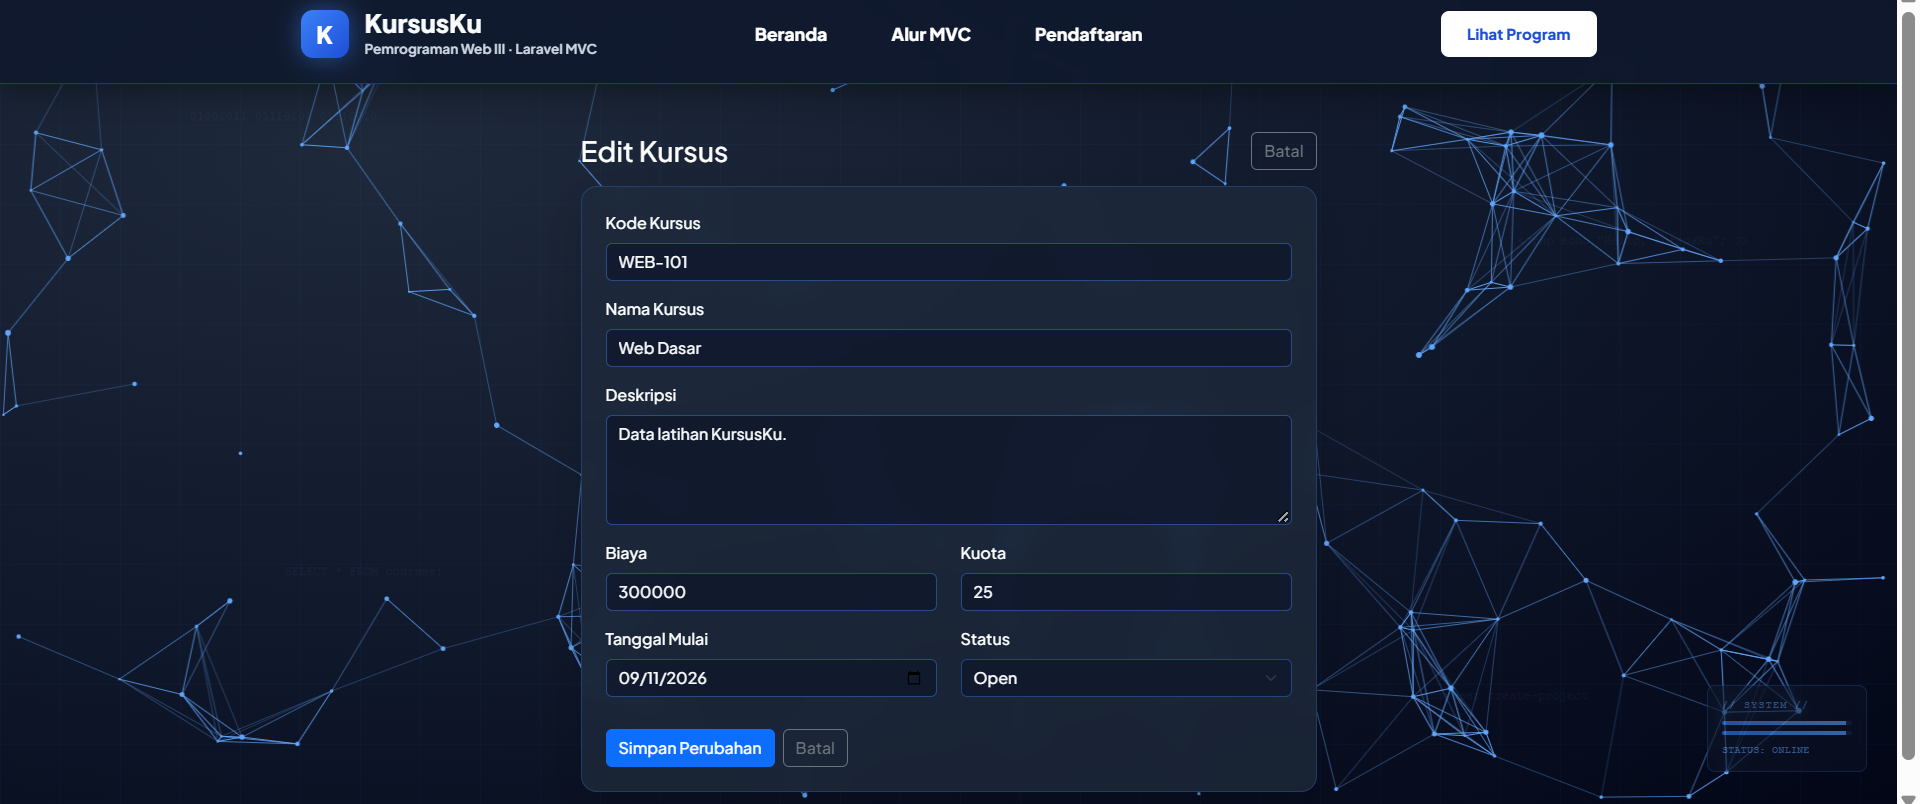
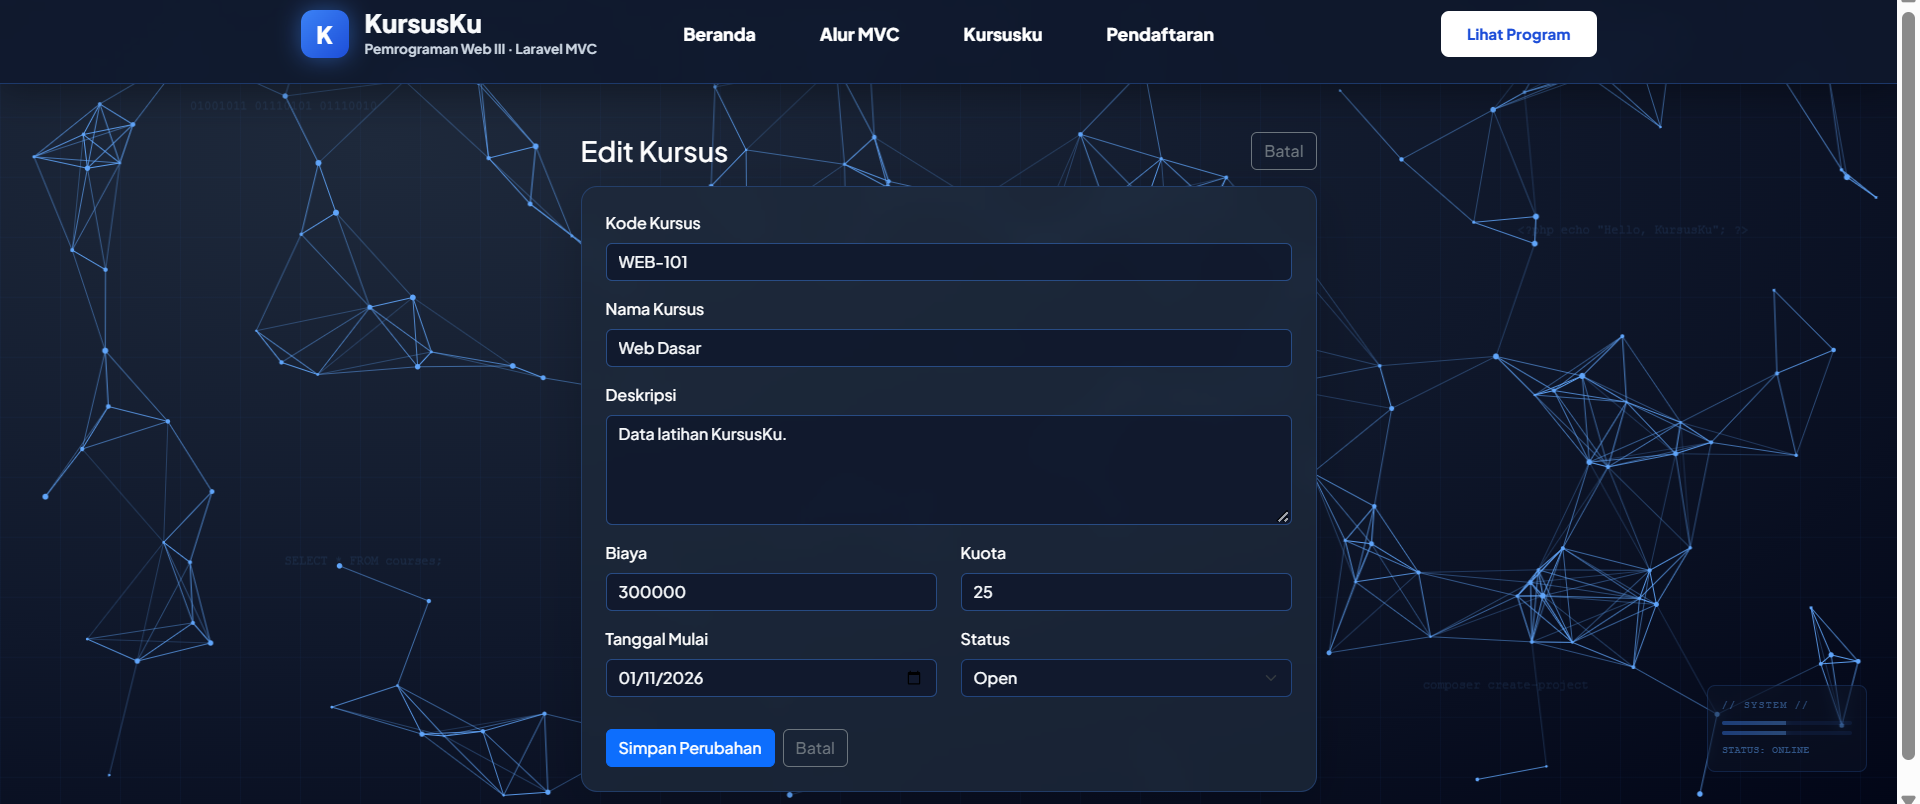
feat: menyelesaikan seluruh tugas dan evidence week 11

diff --git a/resources/views/partials/navbar.blade.php b/resources/views/partials/navbar.blade.php
@@ -13,6 +13,10 @@
         <div class="nav-links">
             <a href="{{ route('home') }}" class="nav-link-custom">Beranda</a>
             <a href="#alur-mvc" class="nav-link-custom">Alur MVC</a>
+            
+            <!-- Menu Baru -->
+            <a href="{{ route('courses.index') }}" class="nav-link-custom">Kursusku</a>
+            
             <a href="{{ route('enrollments.create') }}" class="nav-link-custom">Pendaftaran</a>
         </div>
         
